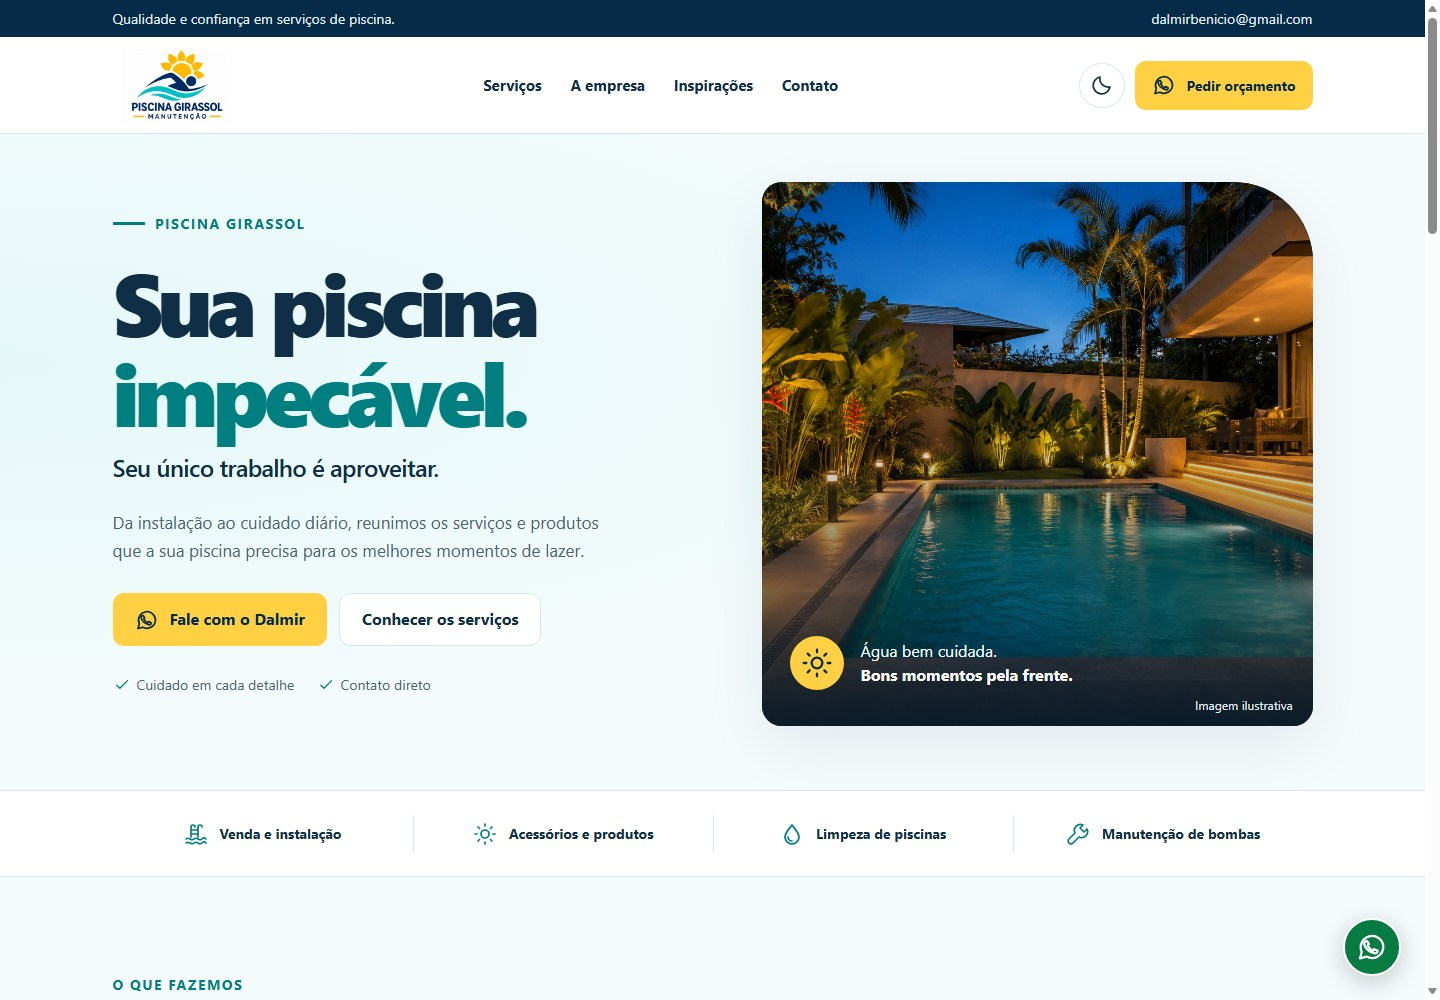
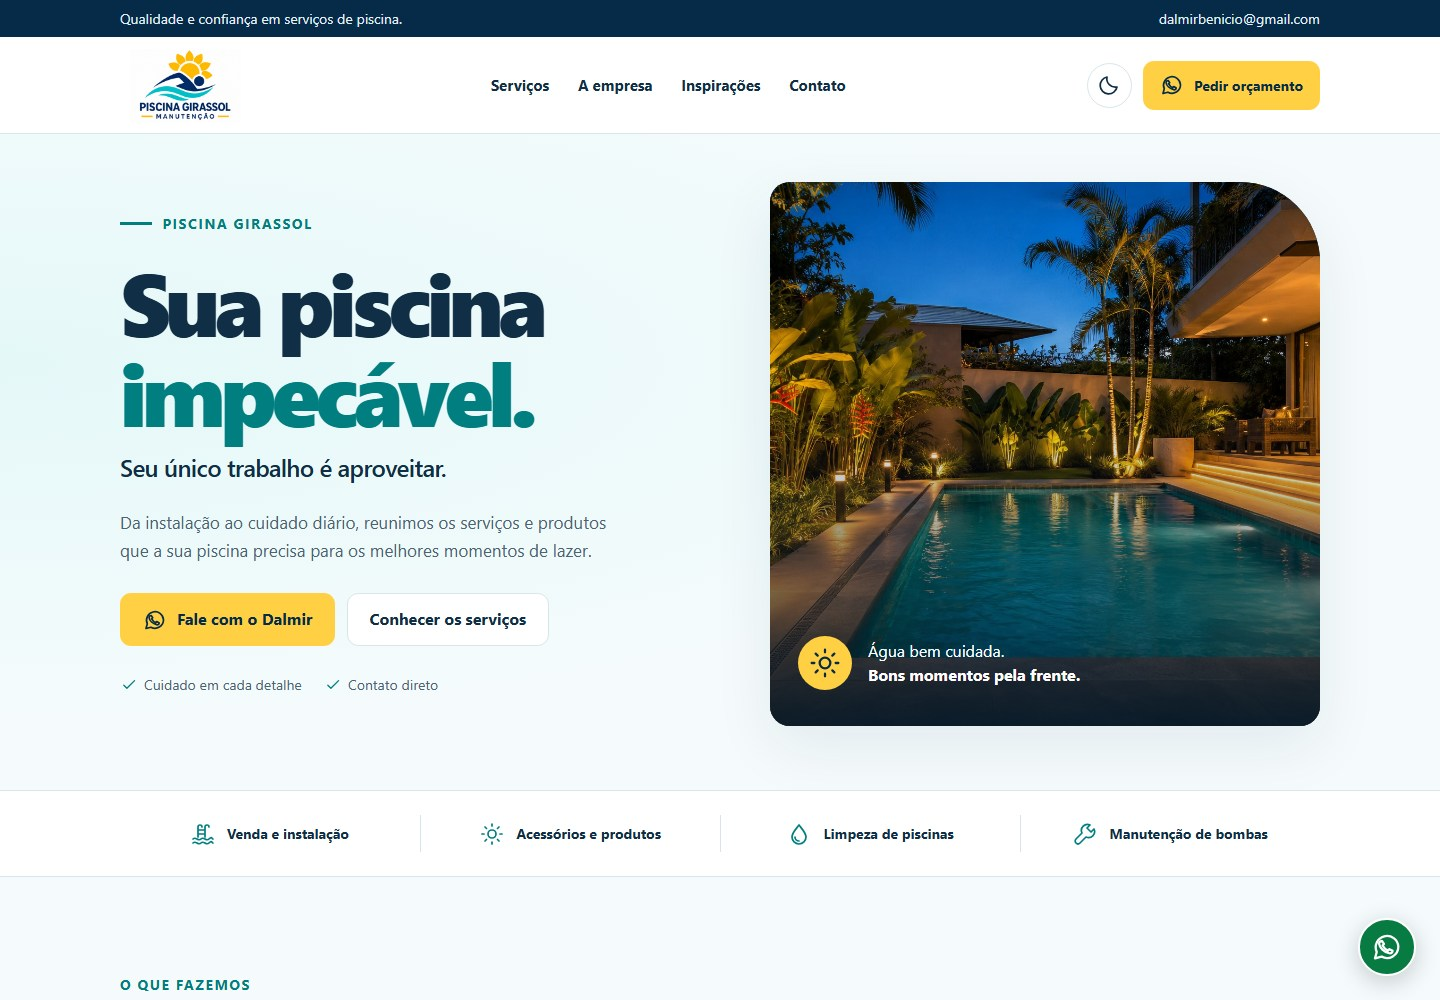
docs: destaca previa atualizada da pagina inicial no README

diff --git a/README.md b/README.md
@@ -4,7 +4,9 @@
 
 Site institucional da Piscina Girassol, com apresentação da empresa, categorias de serviços e contato direto com o Dalmir. Desenvolvido em **HTML, CSS e JavaScript**, sem frameworks, dependências externas ou etapa de compilação.
 
-![Página inicial da Piscina Girassol](docs/preview.jpg)
+## 🖥 Prévia do site
+
+![Página inicial da Piscina Girassol](./docs/preview.jpg)
 
 ## 🏊 Serviços apresentados
 
@@ -74,7 +76,7 @@ Os nomes de arquivos e pastas seguem o padrão em inglês. Classes, variáveis, 
 | Cores, espaçamentos e pontos de adaptação | `styles/main.css` |
 | Nome e cores dos atalhos | `site.webmanifest` |
 
-As fotografias são **ilustrativas**. Os arquivos originais e a referência de contato foram preservados em `assets/images/originals/`.
+Os arquivos originais e a referência de contato foram preservados em `assets/images/originals/`.
 
 ## 📲 Favicons e atalhos
 
